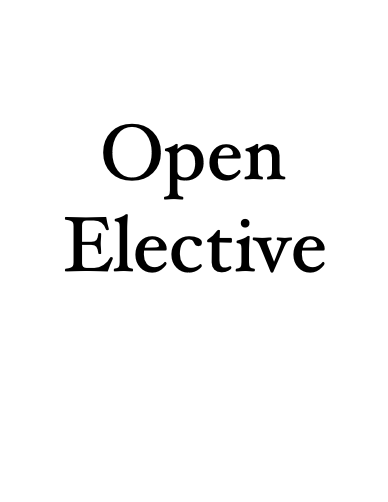
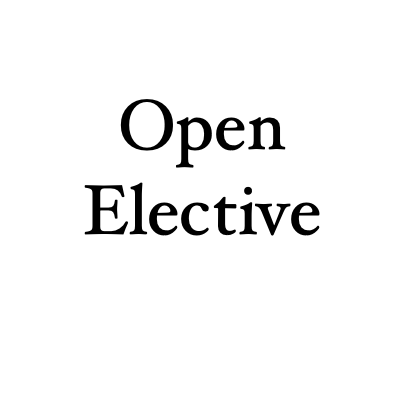
updated oe and pe images

Changed region(s): [[0.1546, 0.4264, 0.8351, 0.6091], [0.2474, 0.2437, 0.7423, 0.4264]]

diff --git a/semester-3-1.html b/semester-3-1.html
@@ -150,13 +150,13 @@
         </a>
 
 
-        <a href="https://drive.google.com/drive/folders/14WH3ylJUi2bcxtzJXGuvyFdqBCbU5ePq?usp=sharing" target="_blank"
+        <a href="https://drive.google.com/drive/folders/19wj6MBborhMCR2KNrdVMW3dxSpE80PyW?usp=sharing" target="_blank"
             class="underline">
             <div class="card">
-                <img src="https://raw.githubusercontent.com/belvenkat/website/semester-2/linux.jpg" alt="Linux Image"
+                <img src="https://raw.githubusercontent.com/belvenkat/website/semester-2/OE.png" alt="OE"
                     class="subject_img">
                 <div class="container border-top">
-                    <h4><b>Linux Programming</b></h4>
+                    <h4><b>Open Elective</b></h4>
                 </div>
             </div>
         </a>
@@ -185,13 +185,13 @@
             </div>
         </a>
 
-        <a href="https://drive.google.com/drive/folders/19wj6MBborhMCR2KNrdVMW3dxSpE80PyW?usp=sharing" target="_blank"
+        <a href="https://drive.google.com/drive/folders/14WH3ylJUi2bcxtzJXGuvyFdqBCbU5ePq?usp=sharing" target="_blank"
             class="underline">
             <div class="card">
-                <img src="https://raw.githubusercontent.com/belvenkat/website/semester-2/HCI.png" alt="HCI"
+                <img src="https://raw.githubusercontent.com/belvenkat/website/semester-2/PE.png" alt="pe"
                     class="subject_img">
                 <div class="container border-top">
-                    <h4><b>HCI</b></h4>
+                    <h4><b>Professional Elective</b></h4>
                 </div>
             </div>
         </a>
